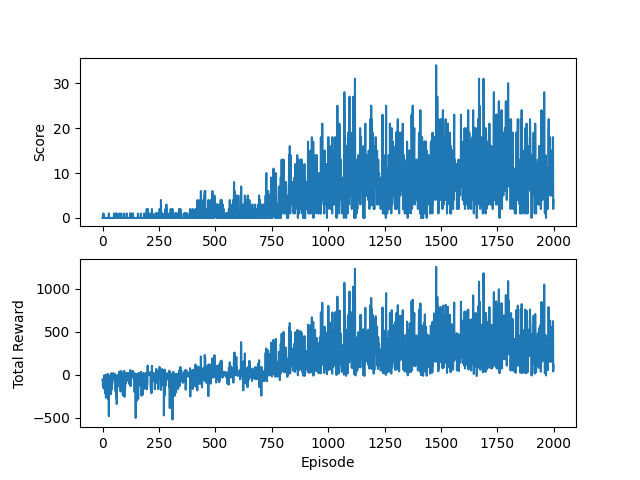
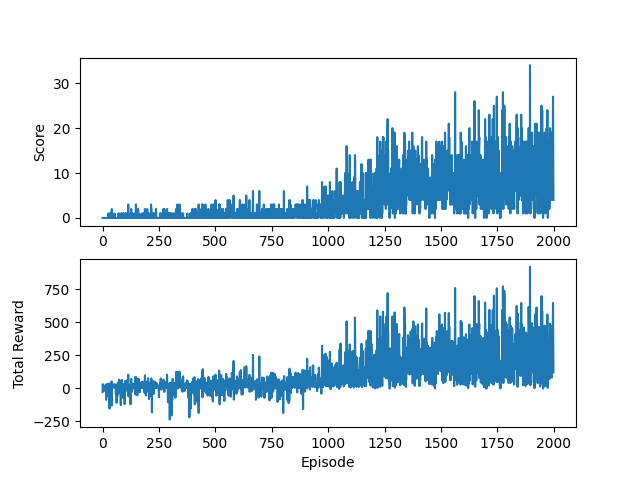
Adjusted parameters

diff --git a/agent.py b/agent.py
@@ -3,20 +3,21 @@ from snake_game import Game, Direction, Window
 import random
 import numpy as np
 import matplotlib.pyplot as plt
+from collections import deque
 
-LEARNING_RATE = 0.005
+LEARNING_RATE = 0.01
 INITIAL_EPSILON = 1
-EPSILON_DECAY = 0.996
+EPSILON_DECAY = 0.997
 MIN_EPSILON = 0.1
 UPDATE_TARGET_MODEL_FREQUENCY = 200
 N_EPISODES = 2000
-BATCH_SIZE = 32
 GAMMA = 0.99
 
 WIDTH = 21
 HEIGHT = 21
 TILE_SIZE = 20
 GAP_SIZE = 2
+FPS = 120
 IS_SHOW_WINDOW = False
 
 
@@ -132,15 +133,15 @@ class Agent:
         reward = 0
 
         if is_game_over:
-            reward -= 20  # punishment for death
+            reward -= 10  # punishment for death
         else:
-            if time_since_eaten_apple > 40:
+            if time_since_eaten_apple > 50:
                 reward -= 1  # punish for just surviving, not eating apple
             else:
                 reward += 1  # reward survival
 
         if is_eaten_apple:
-            reward += 20  # reward eating apple
+            reward += 10  # reward eating apple
 
         return reward
 
